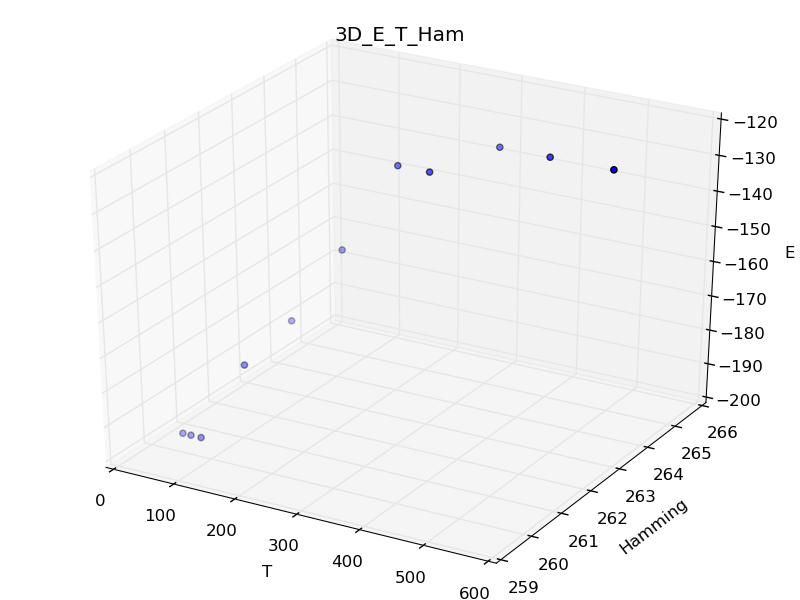
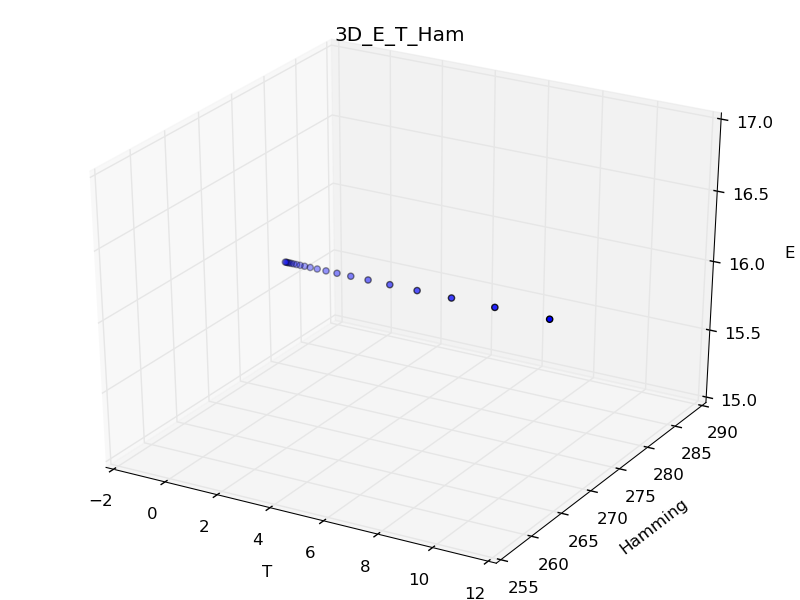
Added sweeps to simulated annealing.

diff --git a/data.py b/data.py
@@ -76,6 +76,10 @@ class Instance(object):
                 H += (value * sol[i] * sol[j]) + (sol[i] * self.h[i])
         return H
 
+    def get_diff_cost(self, sol, cost, col):
+        differential = 0
+        return cost - differential
+
     def load_file(self):
         filename = 'plantedFrustLoops_Nq%s_Nsg%s_s%s.dat' % (
             self.nb_qubits,
@@ -121,7 +125,7 @@ class Instance(object):
         img = self.J
         misc.imsave(directory, img)
 
-    def run_SA(self, T=500, c=0.8, n_iter=100):
+    def run_SA(self, T=10, c=0.8, n_iter=100, n_sweeps=10, T_min=1):
         """
             Implements a simulated annealing procedure
             to find the lowest energy for this given instance problem
@@ -133,16 +137,18 @@ class Instance(object):
         temperatures = [T, ]
         hammings = [hamming_distance(sol, self.config), ]
         print 'Current best: ', old_cost
-        while T > 1:
-            for i in xrange(n_iter):
-                swap = randint(0, sol.shape[0] - 1)
-                new_sol = sol.copy()
-                new_sol[swap] = new_sol[swap] * -1
-                new_cost = self.get_cost(new_sol)
-                if new_cost < old_cost or (old_cost - new_cost) < T * log(random()):
-                    sol = new_sol
-                    old_cost = new_cost
-                    print 'New best: ', new_cost
+        while T > T_min:
+            accept_prob = T * log(random())
+            for sweep in xrange(n_sweeps):
+                for i in xrange(len(sol)):
+                    swap = randint(0, sol.shape[0] - 1)
+                    new_sol = sol.copy()
+                    new_sol[swap] = new_sol[swap] * -1
+                    new_cost = self.get_diff_cost(new_sol, old_cost, swap)
+                    if new_cost < old_cost or (old_cost - new_cost) < accept_prob:
+                        sol = new_sol
+                        old_cost = new_cost
+                        print 'New best: ', new_cost
                 T = c * T
                 scores.append(old_cost)
                 temperatures.append(T)

diff --git a/main.py b/main.py
@@ -43,6 +43,10 @@ if __name__ == '__main__':
     data = Instance(nb_sg=504, id=199)
     print 'Cost of config:', data.get_cost(data.config)
     print 'Timing: ', data.timing
-    sa = data.run_SA()
+    sa = data.run_SA(T=10)
     print 'Simulated Annealing: ', sa[1]
+    print 'Loading all instances...'
+    instances = get_all_instances(nb_sg=420)
+    print 'Solving all instances...'
+    # score = [i.run_SA() for i in instances]
     debug()
